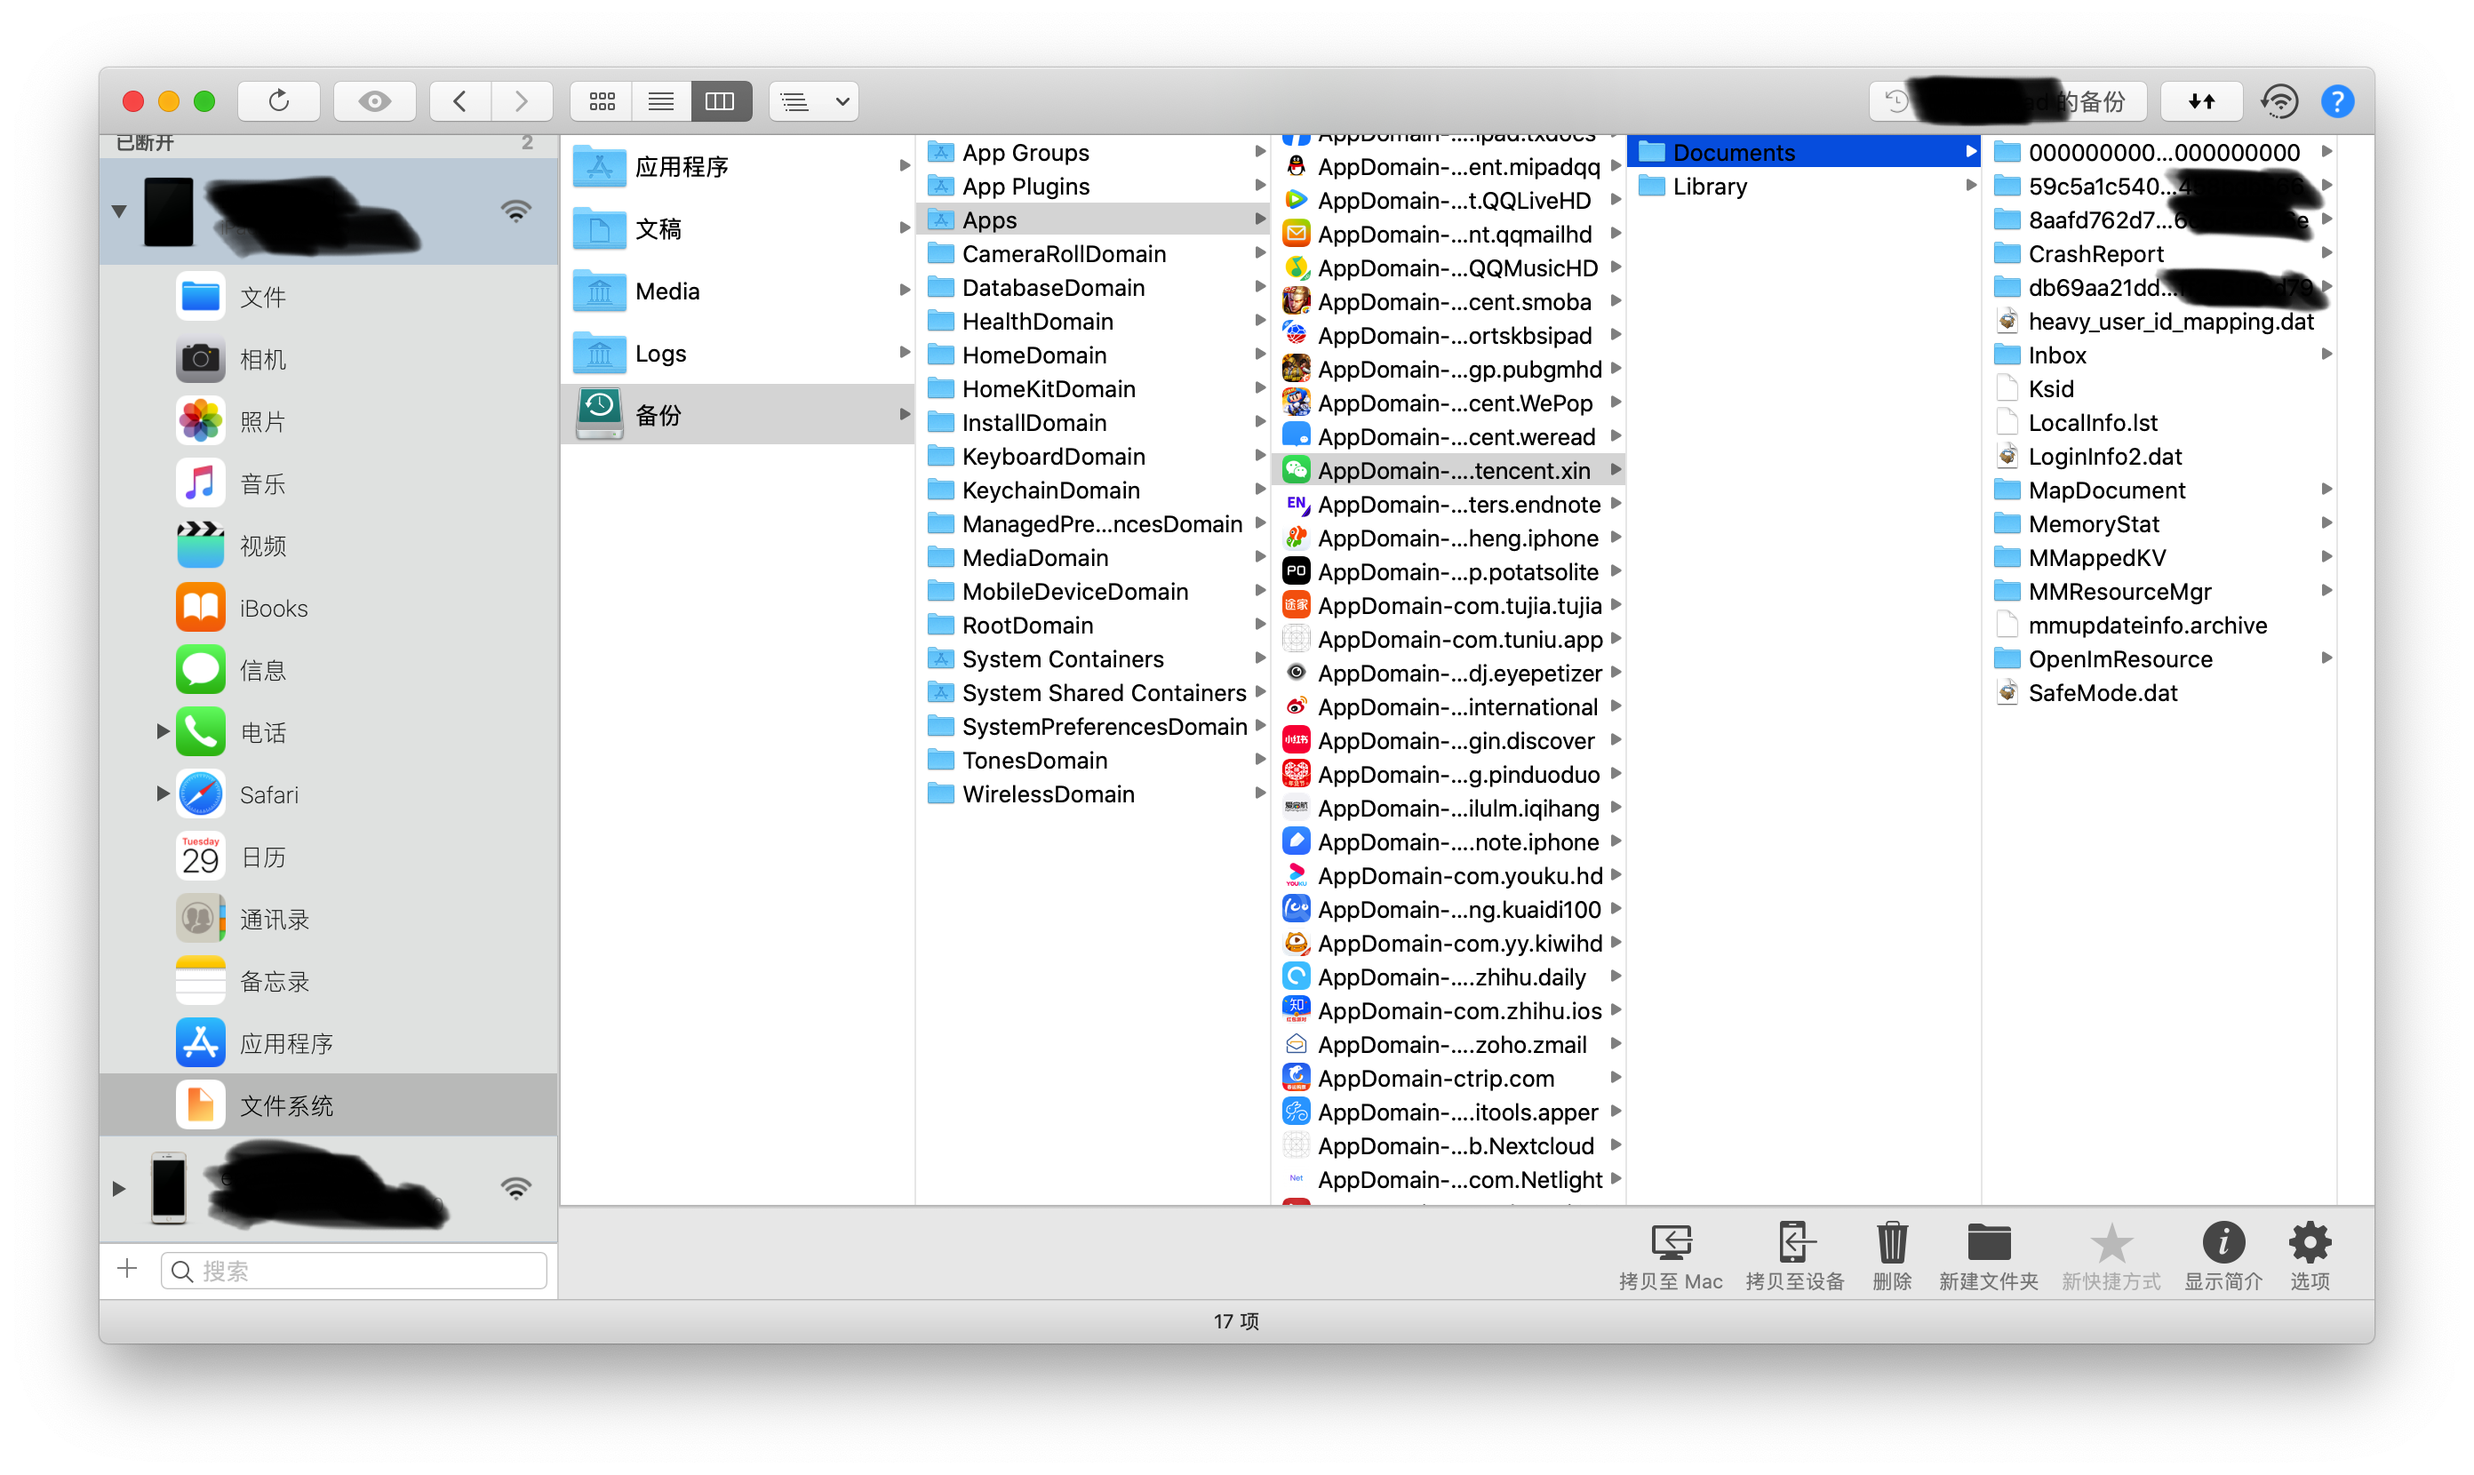
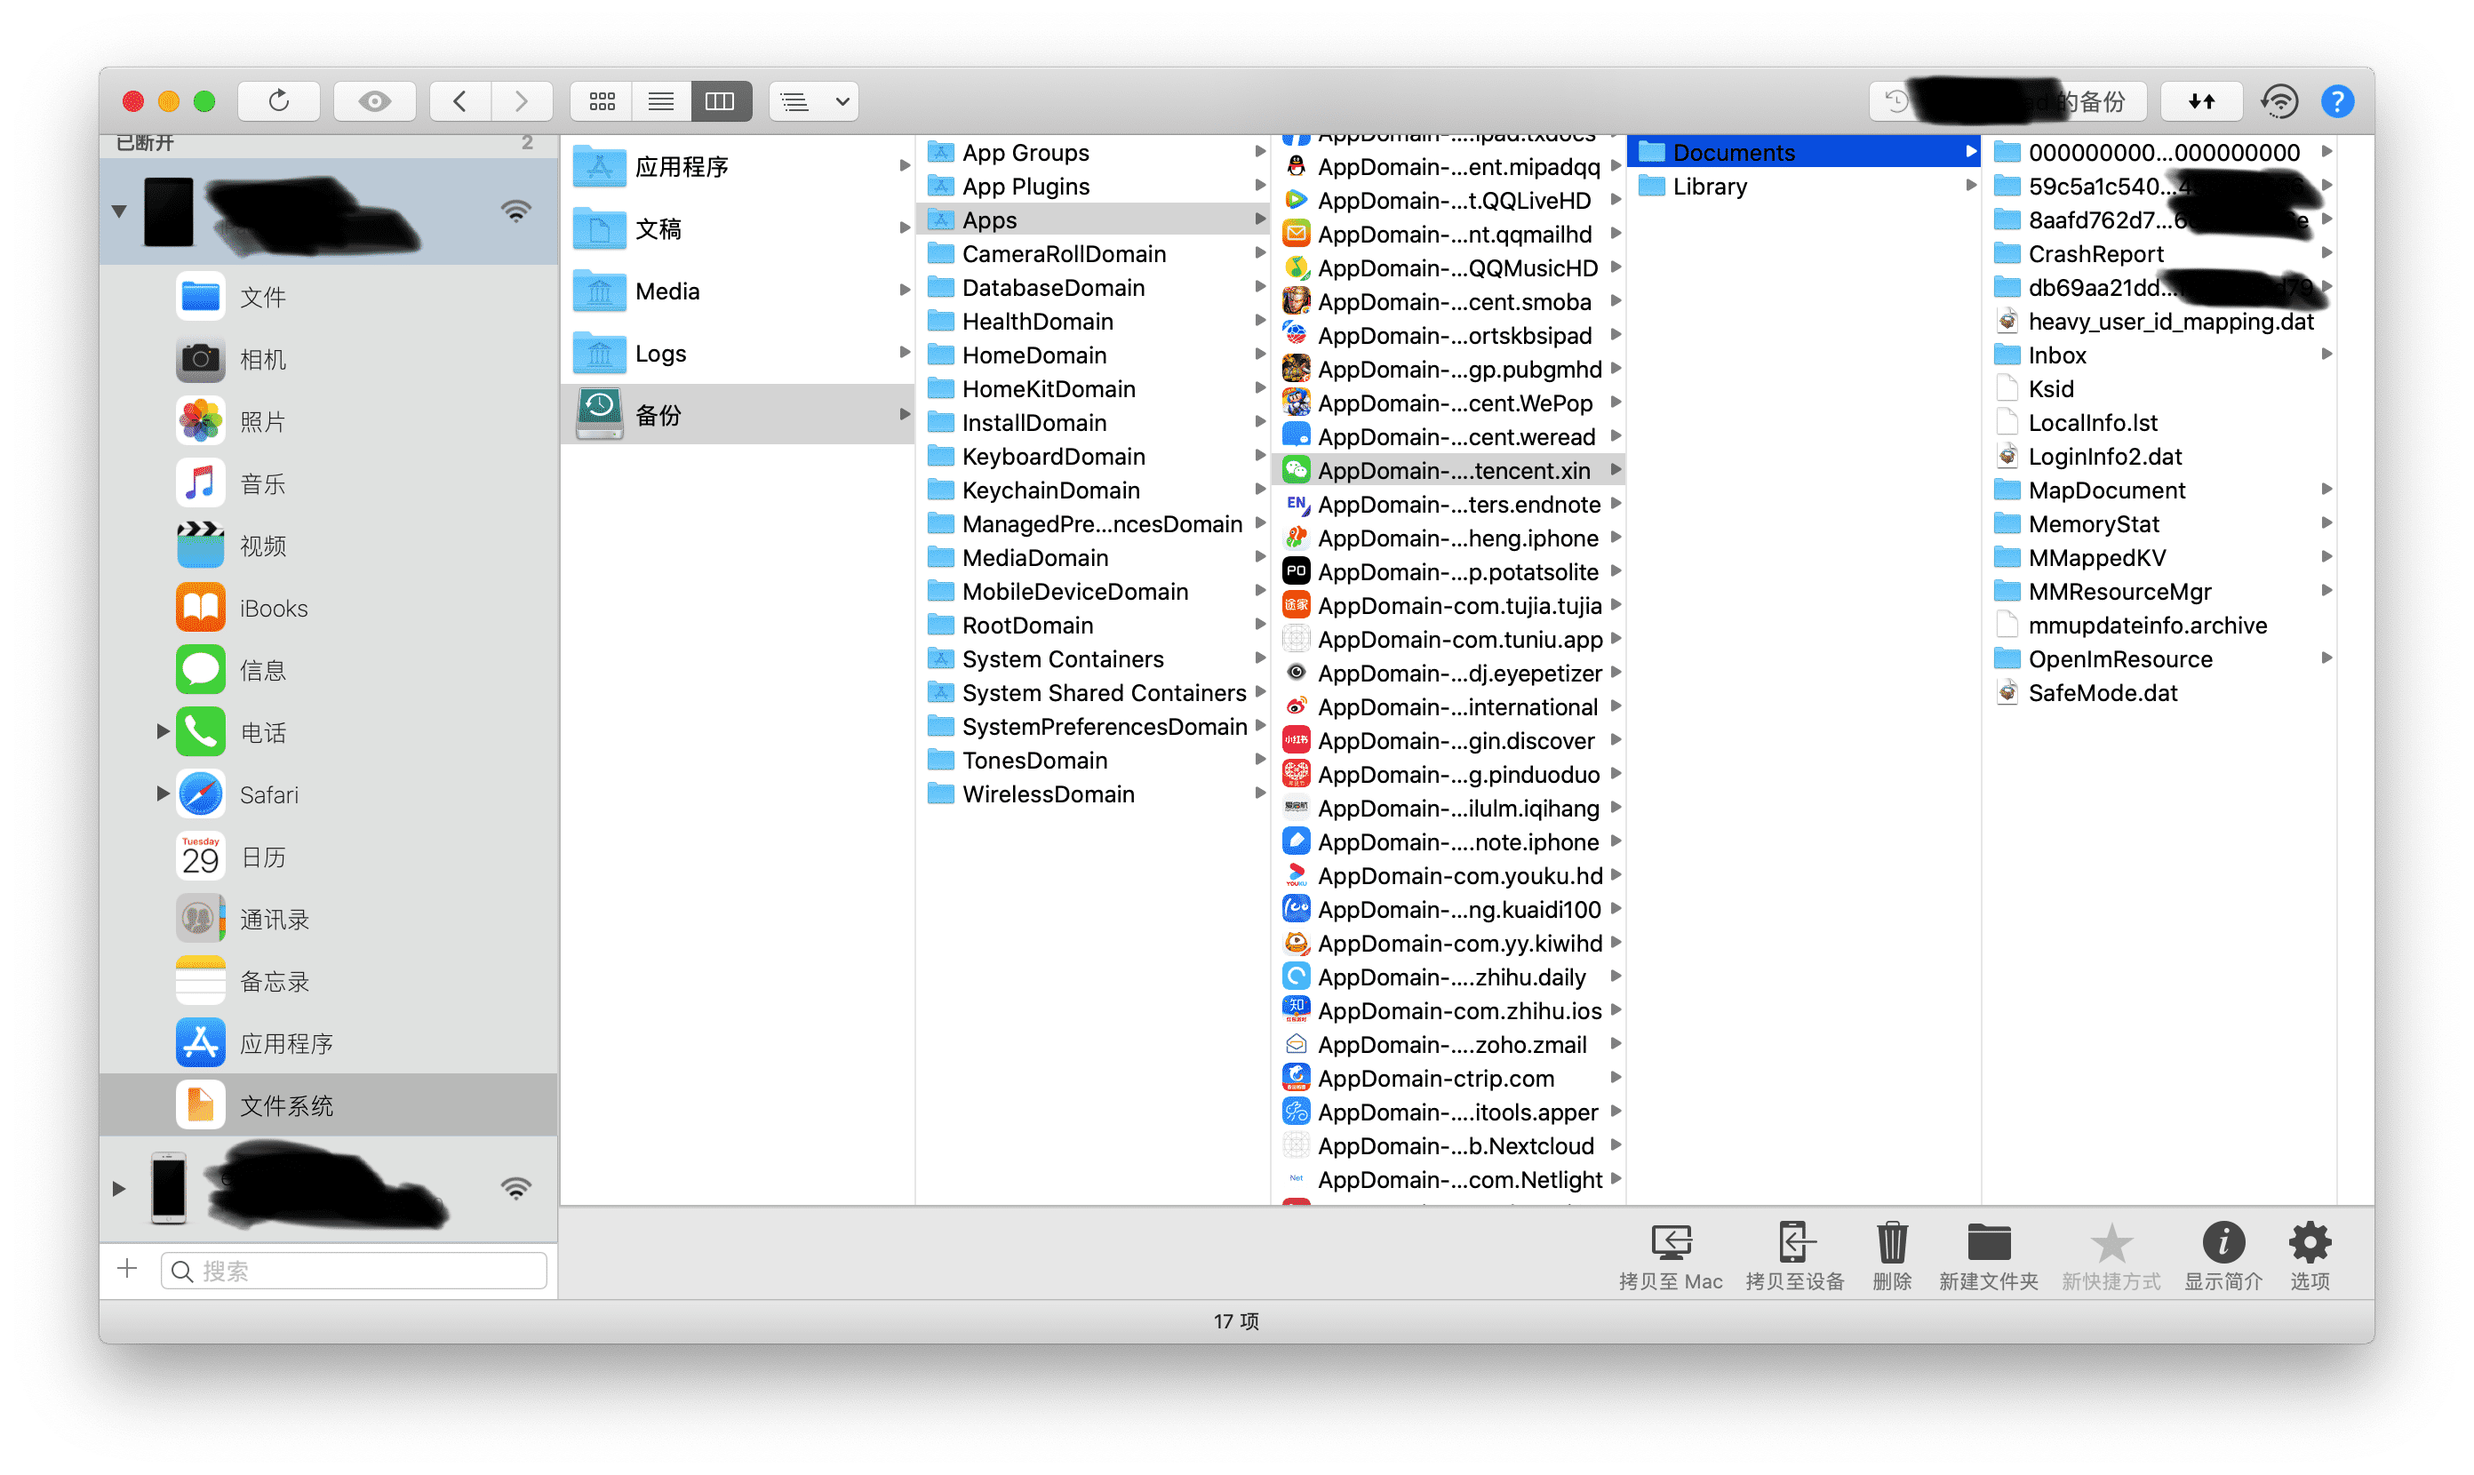
add readme img

diff --git a/README.md b/README.md
@@ -28,6 +28,8 @@
 
 其中无规则字串文件夹就是对应不同WXID的微信号(经过MD5 Hash)。
 
+![iMazing](https://raw.githubusercontent.com/Duerxin/wechat-exporter/master/README_Images/iMazing.png)
+
 ### WXID
 获得wxid，目前我没有找到比较简单的方法。
 
